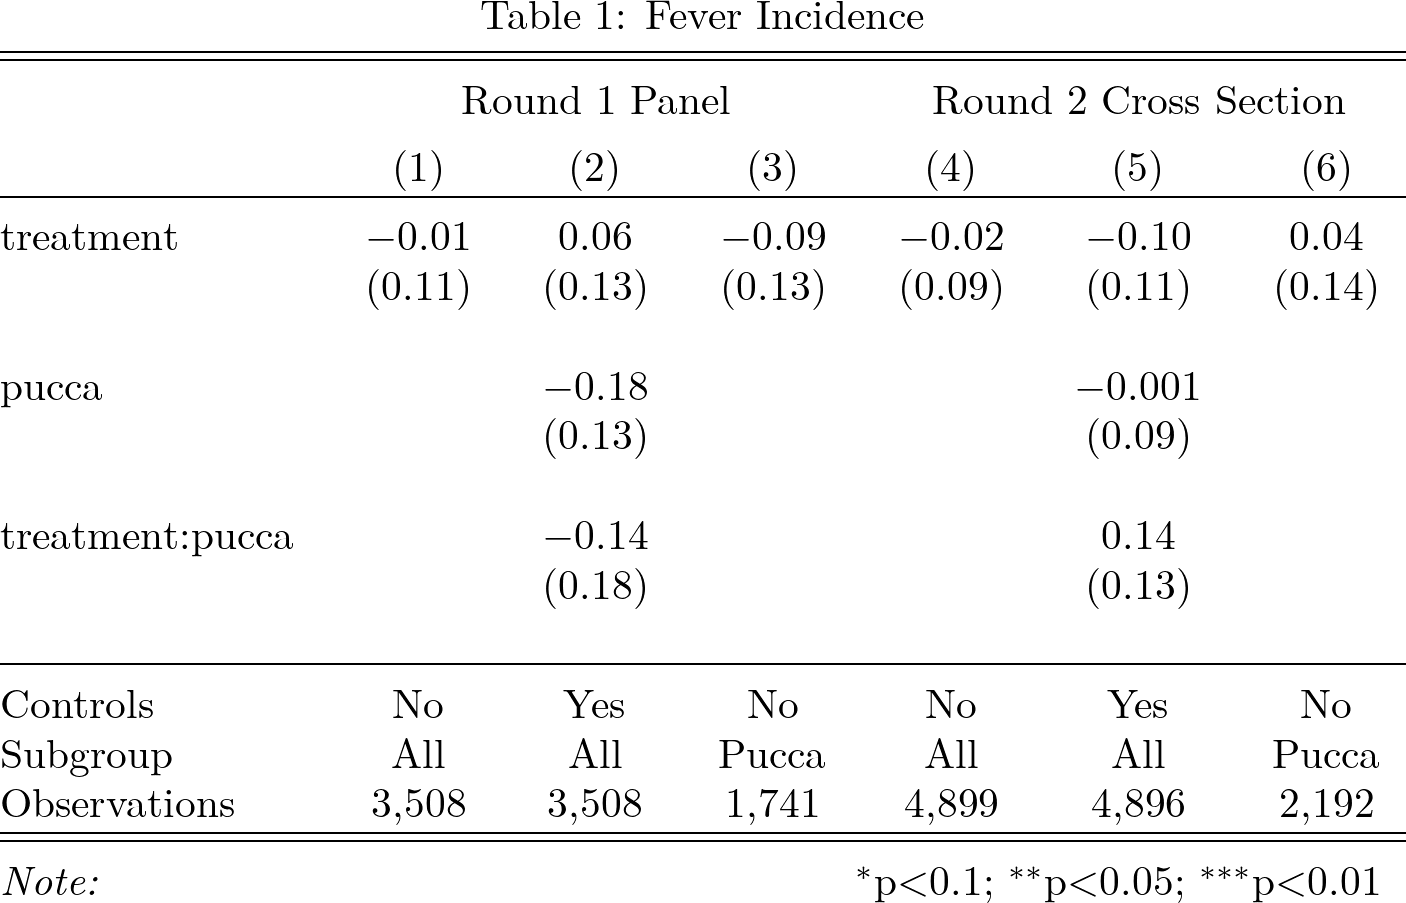
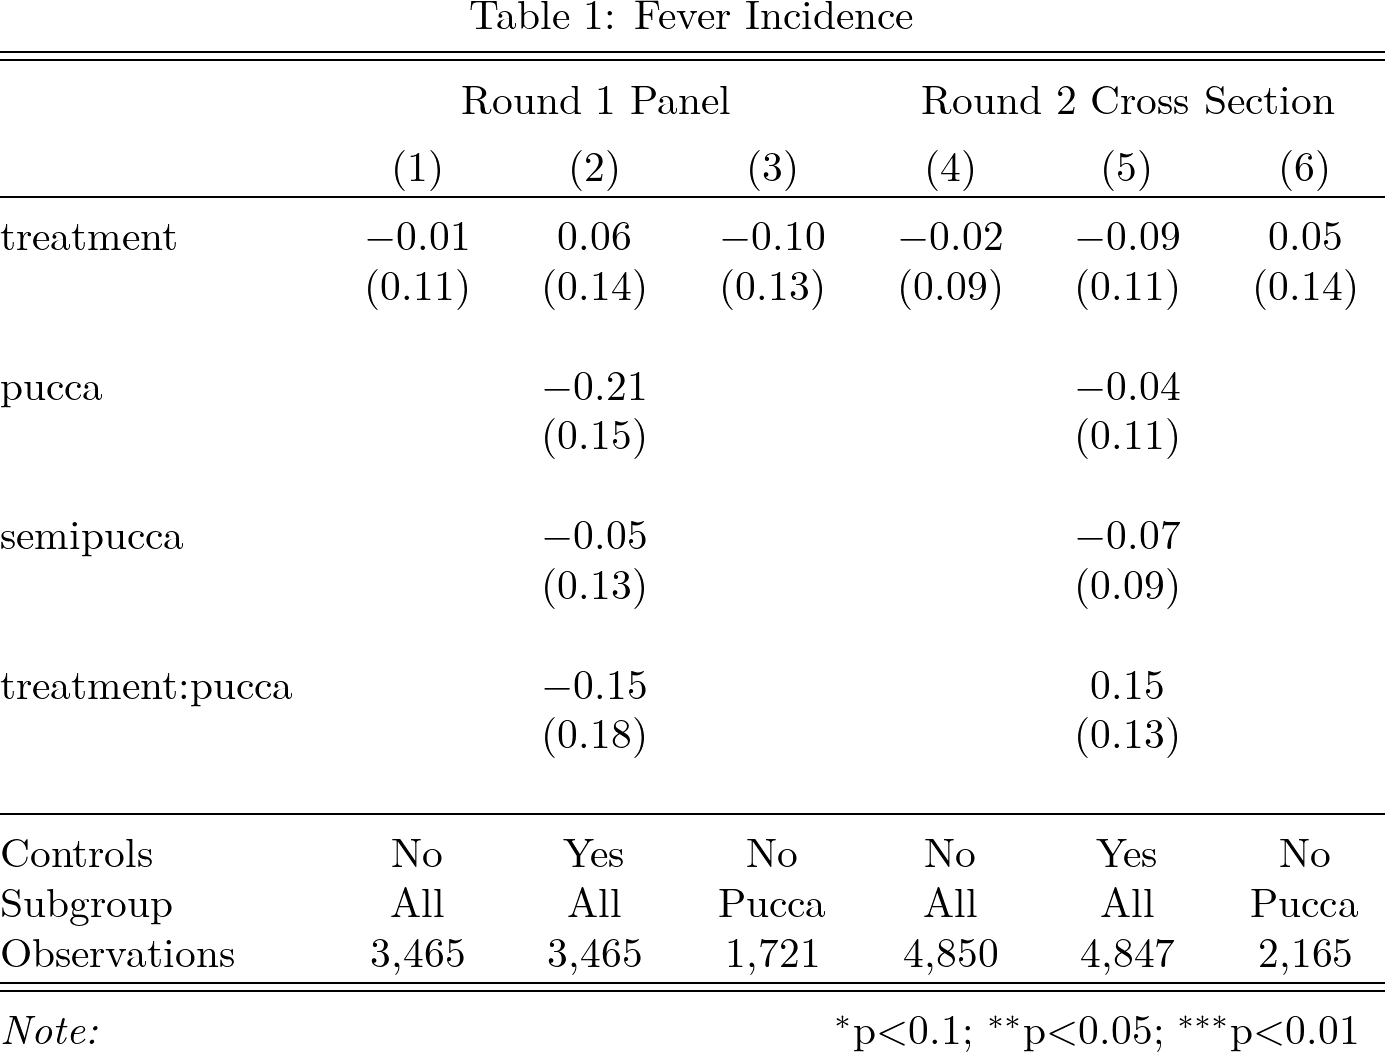
removed balrampur from all data - reran regressions

diff --git a/tables/Sleeping Under Bednet - Panel.tex b/tables/Sleeping Under Bednet - Panel.tex
@@ -1,6 +1,6 @@
 
 % Table created by stargazer v.5.2.2 by Marek Hlavac, Harvard University. E-mail: hlavac at fas.harvard.edu
-% Date and time: Mon, Jun 07, 2021 - 06:21:29 PM
+% Date and time: Sun, Dec 19, 2021 - 07:27:27 PM
 \begin{table}[!htbp] \centering 
   \caption{Sleeping Under Bednet - Panel} 
   \label{tbl:Sleeping Under Bednet - Panel} 
@@ -10,19 +10,22 @@
  & \multicolumn{3}{c}{Self} & \multicolumn{3}{c}{Household} \\ 
 \\[-1.8ex] & (1) & (2) & (3) & (4) & (5) & (6)\\ 
 \hline \\[-1.8ex] 
- treatment & 0.07 & $-$0.03 & 0.17 & 0.08 & $-$0.12 & 0.30$^{**}$ \\ 
+ treatment & 0.06 & $-$0.04 & 0.17 & 0.08 & $-$0.12 & 0.30$^{**}$ \\ 
   & (0.09) & (0.10) & (0.14) & (0.09) & (0.11) & (0.12) \\ 
   & & & & & & \\ 
- pucca &  & $-$0.21$^{***}$ &  &  & $-$0.38$^{***}$ &  \\ 
-  &  & (0.06) &  &  & (0.06) &  \\ 
+ pucca &  & $-$0.29$^{***}$ &  &  & $-$0.50$^{***}$ &  \\ 
+  &  & (0.07) &  &  & (0.08) &  \\ 
   & & & & & & \\ 
- treatment:pucca &  & 0.20$^{**}$ &  &  & 0.38$^{***}$ &  \\ 
-  &  & (0.08) &  &  & (0.09) &  \\ 
+ semipucca &  & $-$0.13$^{**}$ &  &  & $-$0.19$^{***}$ &  \\ 
+  &  & (0.06) &  &  & (0.07) &  \\ 
+  & & & & & & \\ 
+ treatment:pucca &  & 0.21$^{**}$ &  &  & 0.38$^{***}$ &  \\ 
+  &  & (0.09) &  &  & (0.09) &  \\ 
   & & & & & & \\ 
 \hline \\[-1.8ex] 
 Controls & No & Yes & No & No & Yes & No \\ 
 Subgroup & All & All & Pucca & All & All & Pucca \\ 
-Observations & 2,972 & 2,972 & 1,415 & 2,697 & 2,697 & 1,311 \\ 
+Observations & 2,927 & 2,927 & 1,393 & 2,659 & 2,659 & 1,293 \\ 
 \hline 
 \hline \\[-1.8ex] 
 \textit{Note:}  & \multicolumn{6}{r}{$^{*}$p$<$0.1; $^{**}$p$<$0.05; $^{***}$p$<$0.01} \\ 

diff --git a/tables/Malaria Incidence.tex b/tables/Malaria Incidence.tex
@@ -1,6 +1,6 @@
 
 % Table created by stargazer v.5.2.2 by Marek Hlavac, Harvard University. E-mail: hlavac at fas.harvard.edu
-% Date and time: Mon, Jun 07, 2021 - 06:21:30 PM
+% Date and time: Sun, Dec 19, 2021 - 07:27:28 PM
 \begin{table}[!htbp] \centering 
   \caption{Malaria Incidence} 
   \label{tbl:Malaria Incidence} 
@@ -10,19 +10,22 @@
  & \multicolumn{3}{c}{Round 1 Panel} & \multicolumn{3}{c}{Round 2 Cross Section} \\ 
 \\[-1.8ex] & (1) & (2) & (3) & (4) & (5) & (6)\\ 
 \hline \\[-1.8ex] 
- treatment & $-$0.15 & $-$0.30 & 0.12 & 0.11 & 0.27 & $-$0.22 \\ 
+ treatment & $-$0.13 & $-$0.27 & 0.11 & 0.11 & 0.26 & $-$0.22 \\ 
   & (0.16) & (0.19) & (0.23) & (0.17) & (0.19) & (0.24) \\ 
   & & & & & & \\ 
- pucca &  & $-$0.67$^{***}$ &  &  & $-$0.07 &  \\ 
-  &  & (0.21) &  &  & (0.18) &  \\ 
+ pucca &  & $-$0.72$^{***}$ &  &  & $-$0.11 &  \\ 
+  &  & (0.23) &  &  & (0.20) &  \\ 
   & & & & & & \\ 
- treatment:pucca &  & 0.41 &  &  & $-$0.50$^{*}$ &  \\ 
+ semipucca &  & $-$0.09 &  &  & $-$0.08 &  \\ 
+  &  & (0.18) &  &  & (0.15) &  \\ 
+  & & & & & & \\ 
+ treatment:pucca &  & 0.38 &  &  & $-$0.49$^{*}$ &  \\ 
   &  & (0.29) &  &  & (0.26) &  \\ 
   & & & & & & \\ 
 \hline \\[-1.8ex] 
 Controls & No & Yes & No & No & Yes & No \\ 
 Subgroup & All & All & Pucca & All & All & Pucca \\ 
-Observations & 3,490 & 3,490 & 1,733 & 4,898 & 4,895 & 2,191 \\ 
+Observations & 3,447 & 3,447 & 1,713 & 4,849 & 4,846 & 2,164 \\ 
 \hline 
 \hline \\[-1.8ex] 
 \textit{Note:}  & \multicolumn{6}{r}{$^{*}$p$<$0.1; $^{**}$p$<$0.05; $^{***}$p$<$0.01} \\ 

diff --git a/tables/Fever Incidence.tex b/tables/Fever Incidence.tex
@@ -1,6 +1,6 @@
 
 % Table created by stargazer v.5.2.2 by Marek Hlavac, Harvard University. E-mail: hlavac at fas.harvard.edu
-% Date and time: Mon, Jun 07, 2021 - 06:21:30 PM
+% Date and time: Sun, Dec 19, 2021 - 07:27:29 PM
 \begin{table}[!htbp] \centering 
   \caption{Fever Incidence} 
   \label{tbl:Fever Incidence} 
@@ -10,19 +10,22 @@
  & \multicolumn{3}{c}{Round 1 Panel} & \multicolumn{3}{c}{Round 2 Cross Section} \\ 
 \\[-1.8ex] & (1) & (2) & (3) & (4) & (5) & (6)\\ 
 \hline \\[-1.8ex] 
- treatment & $-$0.01 & 0.06 & $-$0.09 & $-$0.02 & $-$0.10 & 0.04 \\ 
-  & (0.11) & (0.13) & (0.13) & (0.09) & (0.11) & (0.14) \\ 
+ treatment & $-$0.01 & 0.06 & $-$0.10 & $-$0.02 & $-$0.09 & 0.05 \\ 
+  & (0.11) & (0.14) & (0.13) & (0.09) & (0.11) & (0.14) \\ 
   & & & & & & \\ 
- pucca &  & $-$0.18 &  &  & $-$0.001 &  \\ 
+ pucca &  & $-$0.21 &  &  & $-$0.04 &  \\ 
+  &  & (0.15) &  &  & (0.11) &  \\ 
+  & & & & & & \\ 
+ semipucca &  & $-$0.05 &  &  & $-$0.07 &  \\ 
   &  & (0.13) &  &  & (0.09) &  \\ 
   & & & & & & \\ 
- treatment:pucca &  & $-$0.14 &  &  & 0.14 &  \\ 
+ treatment:pucca &  & $-$0.15 &  &  & 0.15 &  \\ 
   &  & (0.18) &  &  & (0.13) &  \\ 
   & & & & & & \\ 
 \hline \\[-1.8ex] 
 Controls & No & Yes & No & No & Yes & No \\ 
 Subgroup & All & All & Pucca & All & All & Pucca \\ 
-Observations & 3,508 & 3,508 & 1,741 & 4,899 & 4,896 & 2,192 \\ 
+Observations & 3,465 & 3,465 & 1,721 & 4,850 & 4,847 & 2,165 \\ 
 \hline 
 \hline \\[-1.8ex] 
 \textit{Note:}  & \multicolumn{6}{r}{$^{*}$p$<$0.1; $^{**}$p$<$0.05; $^{***}$p$<$0.01} \\ 

diff --git a/tables/Sleeping Under Bednet - OLS.tex b/tables/Sleeping Under Bednet - OLS.tex
@@ -1,6 +1,6 @@
 
 % Table created by stargazer v.5.2.2 by Marek Hlavac, Harvard University. E-mail: hlavac at fas.harvard.edu
-% Date and time: Mon, Jun 07, 2021 - 06:21:29 PM
+% Date and time: Sun, Dec 19, 2021 - 07:27:28 PM
 \begin{table}[!htbp] \centering 
   \caption{Sleeping Under Bednet - OLS} 
   \label{tbl:Sleeping Under Bednet - OLS} 
@@ -10,11 +10,14 @@
  & \multicolumn{3}{c}{Probability of Sleeping (Self)} & \multicolumn{3}{c}{Average Percentage of Household} \\ 
 \\[-1.8ex] & (1) & (2) & (3) & (4) & (5) & (6)\\ 
 \hline \\[-1.8ex] 
- treatment & 0.02 & $-$0.002 & 0.04 & 0.02 & $-$0.01 & 0.06$^{**}$ \\ 
+ treatment & 0.02 & $-$0.01 & 0.04 & 0.02 & $-$0.01 & 0.06$^{**}$ \\ 
   & (0.02) & (0.03) & (0.03) & (0.02) & (0.02) & (0.02) \\ 
   & & & & & & \\ 
- pucca &  & $-$0.04 &  &  & $-$0.07$^{***}$ &  \\ 
+ pucca &  & $-$0.06$^{**}$ &  &  & $-$0.09$^{***}$ &  \\ 
   &  & (0.03) &  &  & (0.02) &  \\ 
+  & & & & & & \\ 
+ semipucca &  & $-$0.03 &  &  & $-$0.03$^{*}$ &  \\ 
+  &  & (0.02) &  &  & (0.02) &  \\ 
   & & & & & & \\ 
  treatment:pucca &  & 0.04 &  &  & 0.07$^{**}$ &  \\ 
   &  & (0.04) &  &  & (0.03) &  \\ 
@@ -22,7 +25,7 @@
 \hline \\[-1.8ex] 
 Controls & No & Yes & No & No & Yes & No \\ 
 Subgroup & All & All & Pucca & All & All & Pucca \\ 
-Observations & 2,972 & 2,972 & 1,415 & 2,697 & 2,697 & 1,311 \\ 
+Observations & 2,927 & 2,927 & 1,393 & 2,659 & 2,659 & 1,293 \\ 
 \hline 
 \hline \\[-1.8ex] 
 \textit{Note:}  & \multicolumn{6}{r}{$^{*}$p$<$0.1; $^{**}$p$<$0.05; $^{***}$p$<$0.01} \\ 

diff --git a/tables/Treatment Seeking.tex b/tables/Treatment Seeking.tex
@@ -1,6 +1,6 @@
 
 % Table created by stargazer v.5.2.2 by Marek Hlavac, Harvard University. E-mail: hlavac at fas.harvard.edu
-% Date and time: Mon, Jun 07, 2021 - 06:21:28 PM
+% Date and time: Sun, Dec 19, 2021 - 07:27:27 PM
 \begin{table}[!htbp] \centering 
   \caption{Treatment Seeking} 
   \label{tbl:Treatment Seeking} 
@@ -10,19 +10,22 @@
  & \multicolumn{3}{c}{Round 1 Panel} & \multicolumn{3}{c}{Round 2 Cross Section} \\ 
 \\[-1.8ex] & (1) & (2) & (3) & (4) & (5) & (6)\\ 
 \hline \\[-1.8ex] 
- treatment & 0.23 & 0.43 & $-$0.13 & 0.42 & 0.49 & 0.34 \\ 
+ treatment & 0.22 & 0.41 & $-$0.14 & 0.40 & 0.49 & 0.31 \\ 
   & (0.22) & (0.29) & (0.30) & (0.32) & (0.39) & (0.52) \\ 
   & & & & & & \\ 
- pucca &  & 0.08 &  &  & 0.27 &  \\ 
-  &  & (0.30) &  &  & (0.35) &  \\ 
+ pucca &  & 0.13 &  &  & 0.31 &  \\ 
+  &  & (0.34) &  &  & (0.40) &  \\ 
   & & & & & & \\ 
- treatment:pucca &  & $-$0.51 &  &  & $-$0.14 &  \\ 
-  &  & (0.41) &  &  & (0.54) &  \\ 
+ semipucca &  & 0.08 &  &  & 0.06 &  \\ 
+  &  & (0.28) &  &  & (0.34) &  \\ 
+  & & & & & & \\ 
+ treatment:pucca &  & $-$0.48 &  &  & $-$0.16 &  \\ 
+  &  & (0.42) &  &  & (0.54) &  \\ 
   & & & & & & \\ 
 \hline \\[-1.8ex] 
 Controls & No & Yes & No & No & Yes & No \\ 
 Subgroup & All & All & Pucca & All & All & Pucca \\ 
-Observations & 632 & 631 & 277 & 1,335 & 1,335 & 602 \\ 
+Observations & 623 & 622 & 272 & 1,325 & 1,325 & 597 \\ 
 \hline 
 \hline \\[-1.8ex] 
 \textit{Note:}  & \multicolumn{6}{r}{$^{*}$p$<$0.1; $^{**}$p$<$0.05; $^{***}$p$<$0.01} \\ 

diff --git a/tables/Malaria Incidence - OLS.tex b/tables/Malaria Incidence - OLS.tex
@@ -1,6 +1,6 @@
 
 % Table created by stargazer v.5.2.2 by Marek Hlavac, Harvard University. E-mail: hlavac at fas.harvard.edu
-% Date and time: Mon, Jun 07, 2021 - 06:21:30 PM
+% Date and time: Sun, Dec 19, 2021 - 07:27:29 PM
 \begin{table}[!htbp] \centering 
   \caption{Malaria Incidence - OLS} 
   \label{tbl:Malaria Incidence - OLS} 
@@ -13,16 +13,19 @@
  treatment & $-$0.01 & $-$0.02 & 0.01 & 0.01 & 0.02 & $-$0.01 \\ 
   & (0.01) & (0.01) & (0.01) & (0.01) & (0.01) & (0.01) \\ 
   & & & & & & \\ 
- pucca &  & $-$0.04$^{***}$ &  &  & $-$0.002 &  \\ 
+ pucca &  & $-$0.04$^{**}$ &  &  & $-$0.01 &  \\ 
+  &  & (0.02) &  &  & (0.01) &  \\ 
+  & & & & & & \\ 
+ semipucca &  & $-$0.01 &  &  & $-$0.01 &  \\ 
   &  & (0.01) &  &  & (0.01) &  \\ 
   & & & & & & \\ 
- treatment:pucca &  & 0.03 &  &  & $-$0.03$^{**}$ &  \\ 
+ treatment:pucca &  & 0.02 &  &  & $-$0.03$^{**}$ &  \\ 
   &  & (0.02) &  &  & (0.01) &  \\ 
   & & & & & & \\ 
 \hline \\[-1.8ex] 
 Controls & No & Yes & No & No & Yes & No \\ 
 Subgroup & All & All & Pucca & All & All & Pucca \\ 
-Observations & 3,490 & 3,490 & 1,733 & 4,898 & 4,895 & 2,191 \\ 
+Observations & 3,447 & 3,447 & 1,713 & 4,849 & 4,846 & 2,164 \\ 
 \hline 
 \hline \\[-1.8ex] 
 \textit{Note:}  & \multicolumn{6}{r}{$^{*}$p$<$0.1; $^{**}$p$<$0.05; $^{***}$p$<$0.01} \\ 
